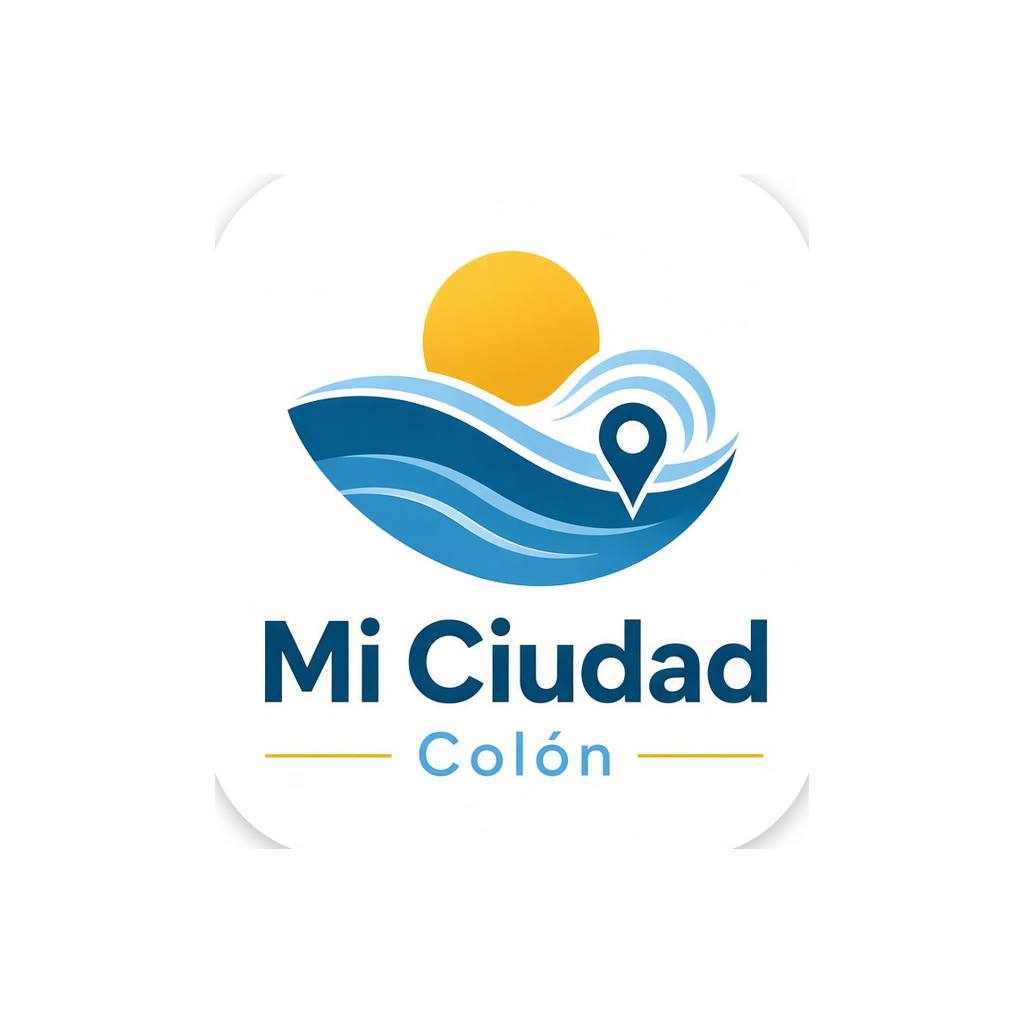
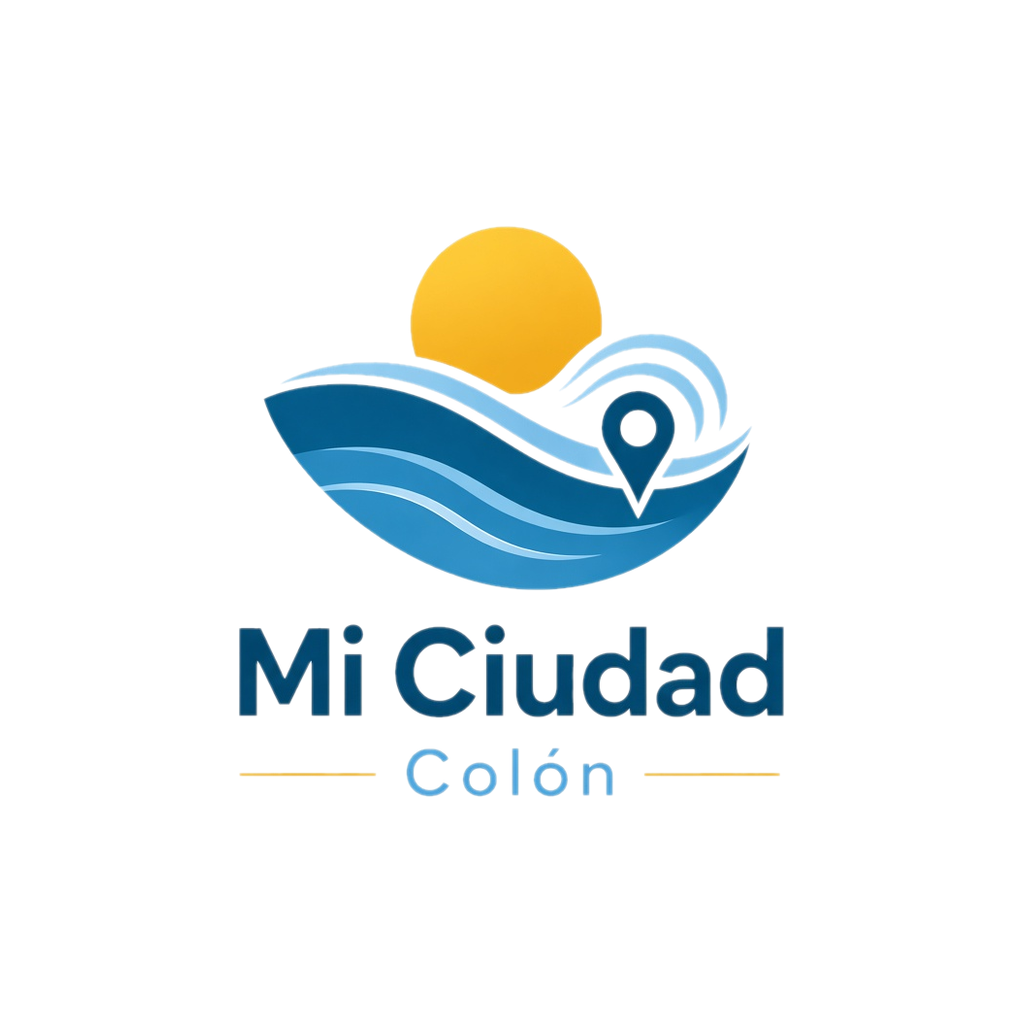
Arreglo icono e iamgenes con transparencia

diff --git a/app/login.tsx b/app/login.tsx
@@ -10,6 +10,7 @@ import { CampoTexto } from '@/componentes/CampoTexto';
 import { useSesion } from '@/proveedores/ProveedorSesion';
 import { useTema } from '@/proveedores/ProveedorTema';
 import { ErrorApi } from '@/servicios/errores';
+import { paletas } from '@/tema/colores';
 
 // Reglas de validación del formulario (zod). Los mensajes se muestran bajo cada campo.
 const esquemaLogin = z.object({
@@ -64,13 +65,16 @@ export default function Login() {
         behavior={Platform.OS === 'ios' ? 'padding' : undefined}
       >
         <ScrollView contentContainerStyle={styles.contenido} keyboardShouldPersistTaps="handled">
-          {/* Logo de la app. Docs Image: https://reactnative.dev/docs/image */}
-          <Image
-            source={require('../assets/logo.png')}
-            style={styles.logo}
-            resizeMode="contain"
-            accessibilityLabel="Mi Ciudad Colón"
-          />
+          {/* Logo con fondo transparente. En modo oscuro va sobre un recuadro blanco para que se lea.
+              Docs Image: https://reactnative.dev/docs/image */}
+          <View style={[styles.contenedorLogo, paleta === paletas.oscuro && styles.contenedorLogoOscuro]}>
+            <Image
+              source={require('../assets/logo.png')}
+              style={styles.logo}
+              resizeMode="contain"
+              accessibilityLabel="Mi Ciudad Colón"
+            />
+          </View>
 
           {hayTokenGuardado ? (
             <Boton etiqueta="Entrar con huella o rostro" onPress={entrarConHuella} />
@@ -141,7 +145,9 @@ export default function Login() {
 const styles = StyleSheet.create({
   pantalla: { flex: 1 },
   contenido: { flexGrow: 1, justifyContent: 'center', padding: 24, gap: 16 },
-  logo: { alignSelf: 'center', width: 220, height: 250, marginBottom: 8 },
+  contenedorLogo: { alignSelf: 'center', marginBottom: 8 },
+  contenedorLogoOscuro: { backgroundColor: '#FFFFFF', borderRadius: 24, padding: 16 },
+  logo: { width: 220, height: 230 },
   errorServidor: { fontSize: 16, fontWeight: '600' },
   nota: { fontSize: 16, textAlign: 'center' },
 });
